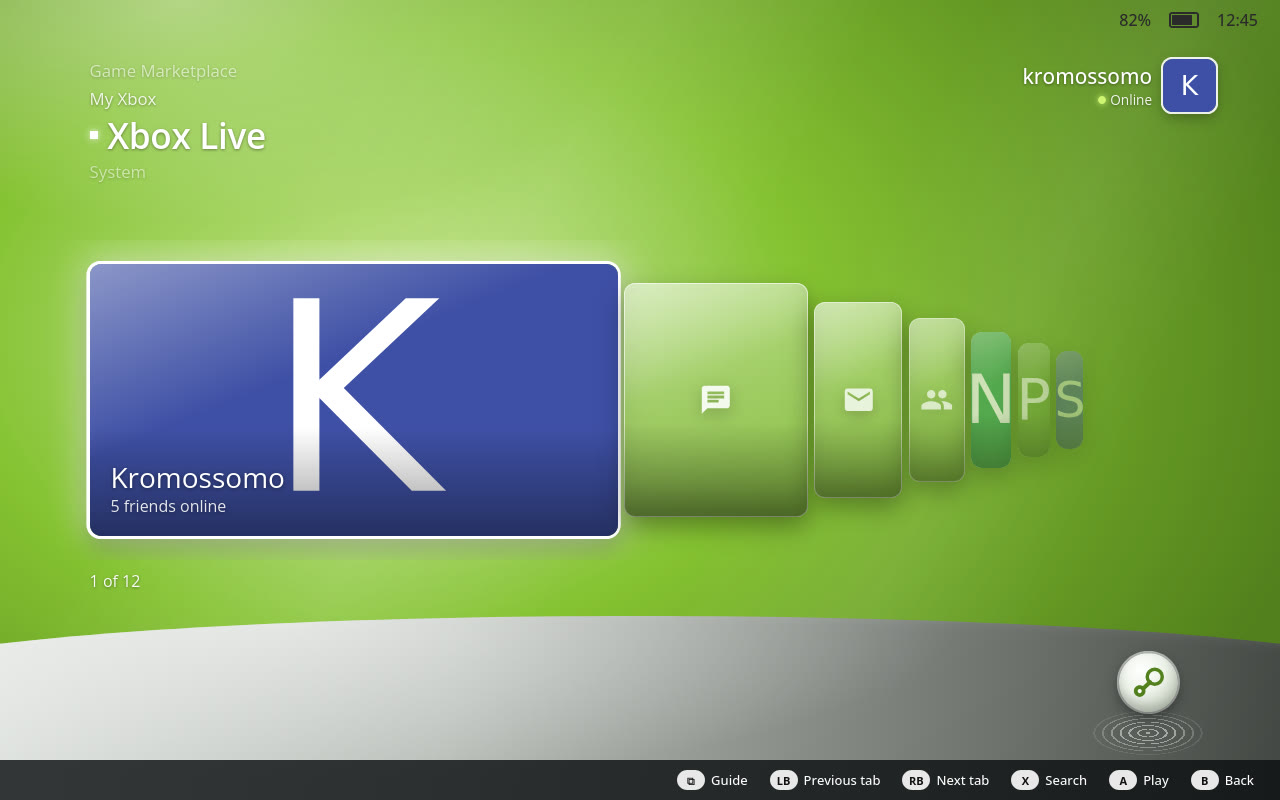
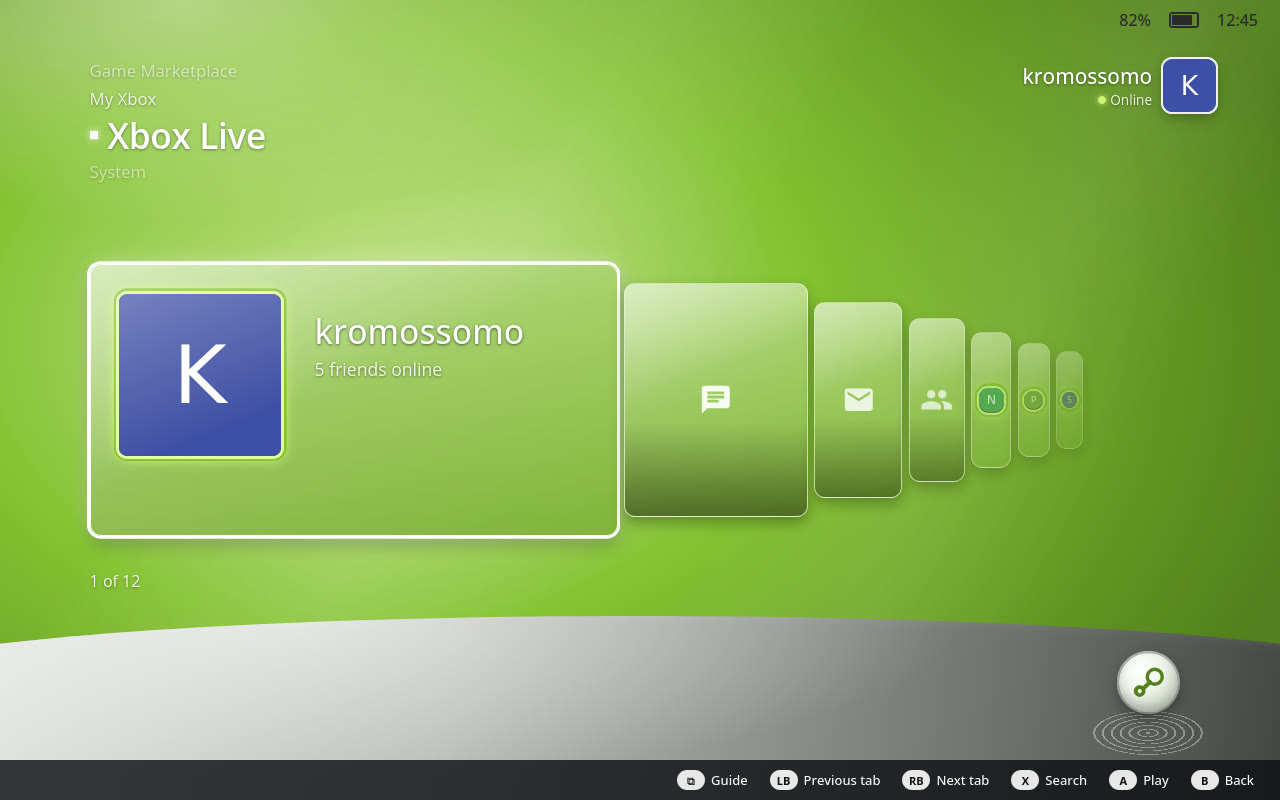
Theme Loader 1.5.2: Steam menu fix for both Xbox 360 dashboards
- Xbox 360 NXE Dashboard 1.0.2 and Xbox 360 Dashboard 1.1.1: the Guide-style
  menu CSS no longer overrides Steam's menu animations, which could leave the
  Steam menu stuck open with the screen blurred
- NXE: only the visible cards are laid out, capsule art instead of hero
  images, cheaper shadows; framed full-resolution friend pictures
- New NXE store screenshots

Changed region(s): [[0.0625, 0.3125, 0.5, 0.6875], [0.75, 0.4062, 0.8438, 0.5938], [0.125, 0.4375, 0.1875, 0.5]]

diff --git a/CHANGELOG.md b/CHANGELOG.md
@@ -1,5 +1,15 @@
 # Changelog
 
+## 1.5.2
+
+- **Xbox 360 NXE Dashboard 1.0.2 and Xbox 360 Dashboard 1.1.1: the Steam menu no longer gets stuck.** With
+  *Guide-style menus* on, opening the Steam menu could leave the screen blurred with no way out. The menu style now
+  only changes colors and backgrounds and leaves Steam's own animations alone.
+- **NXE: lighter.** Only the focused card, the one just passed and the visible stack are drawn, cards use the smaller
+  capsule art instead of 1920 px hero images, and the costly shadows and masks are gone.
+- **NXE: new friend cards.** The Steam picture is framed on the left in full resolution with a green ring when the
+  friend is online, and the name and what they're playing sit beside it.
+
 ## 1.5.1
 
 - **Xbox 360 NXE Dashboard 1.0.1.** A glossy ball with the Steam symbol sits on the floor in the bottom right corner,
